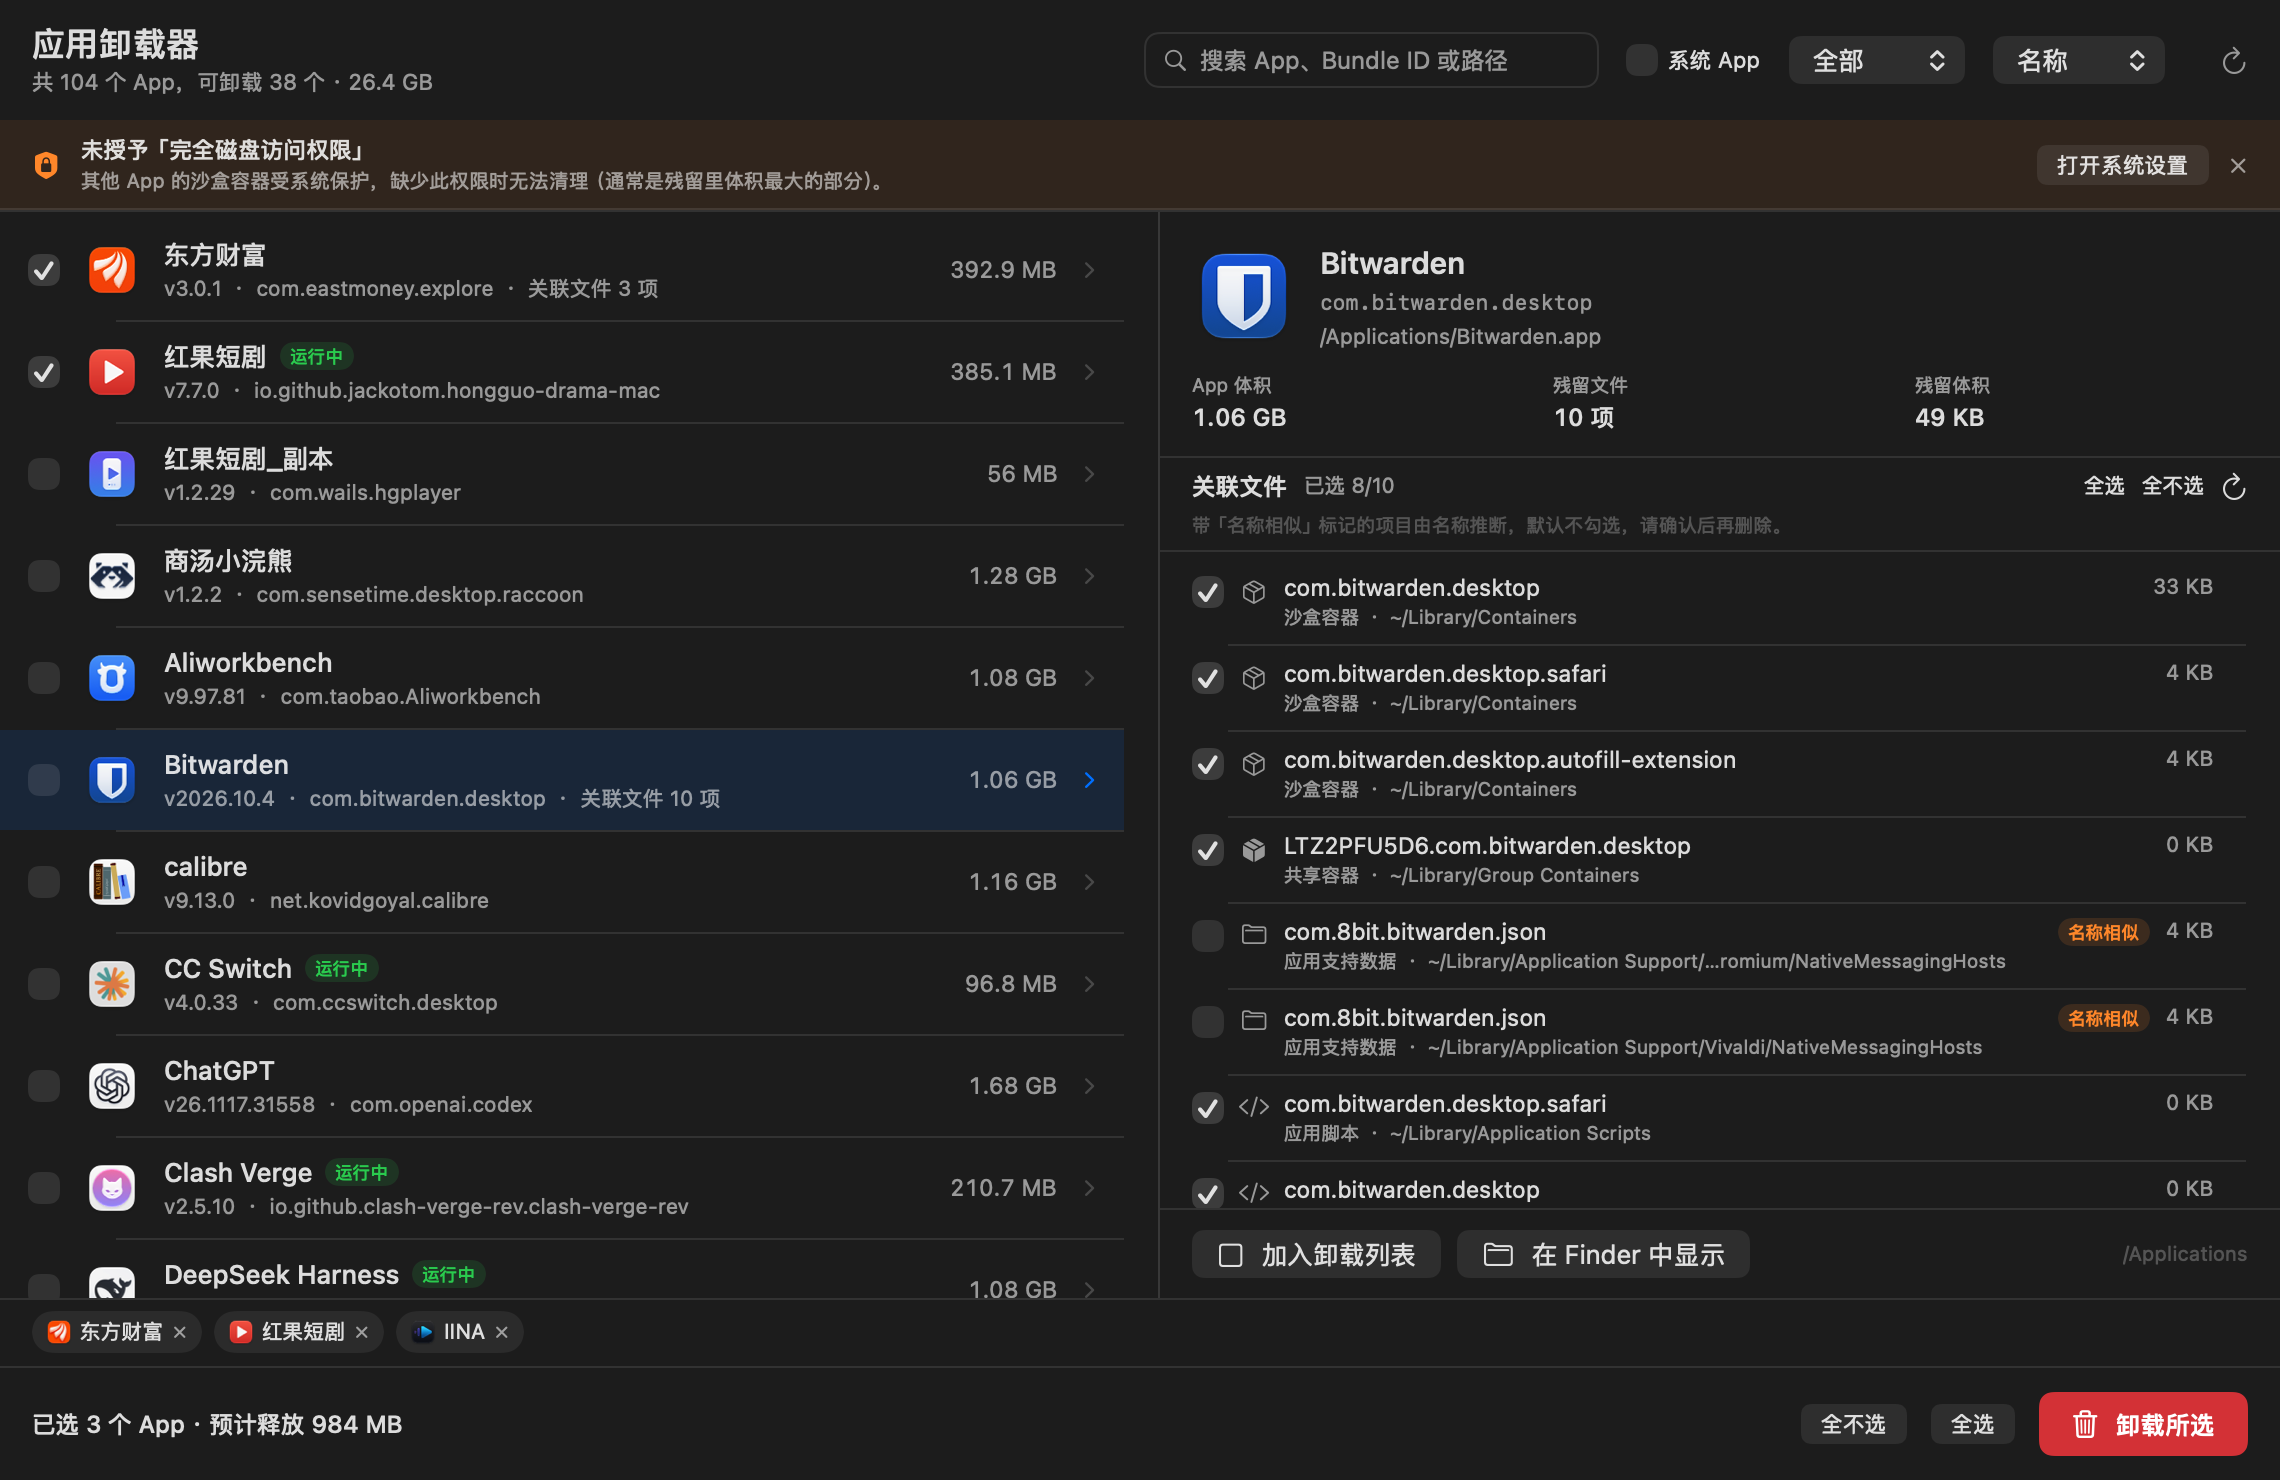
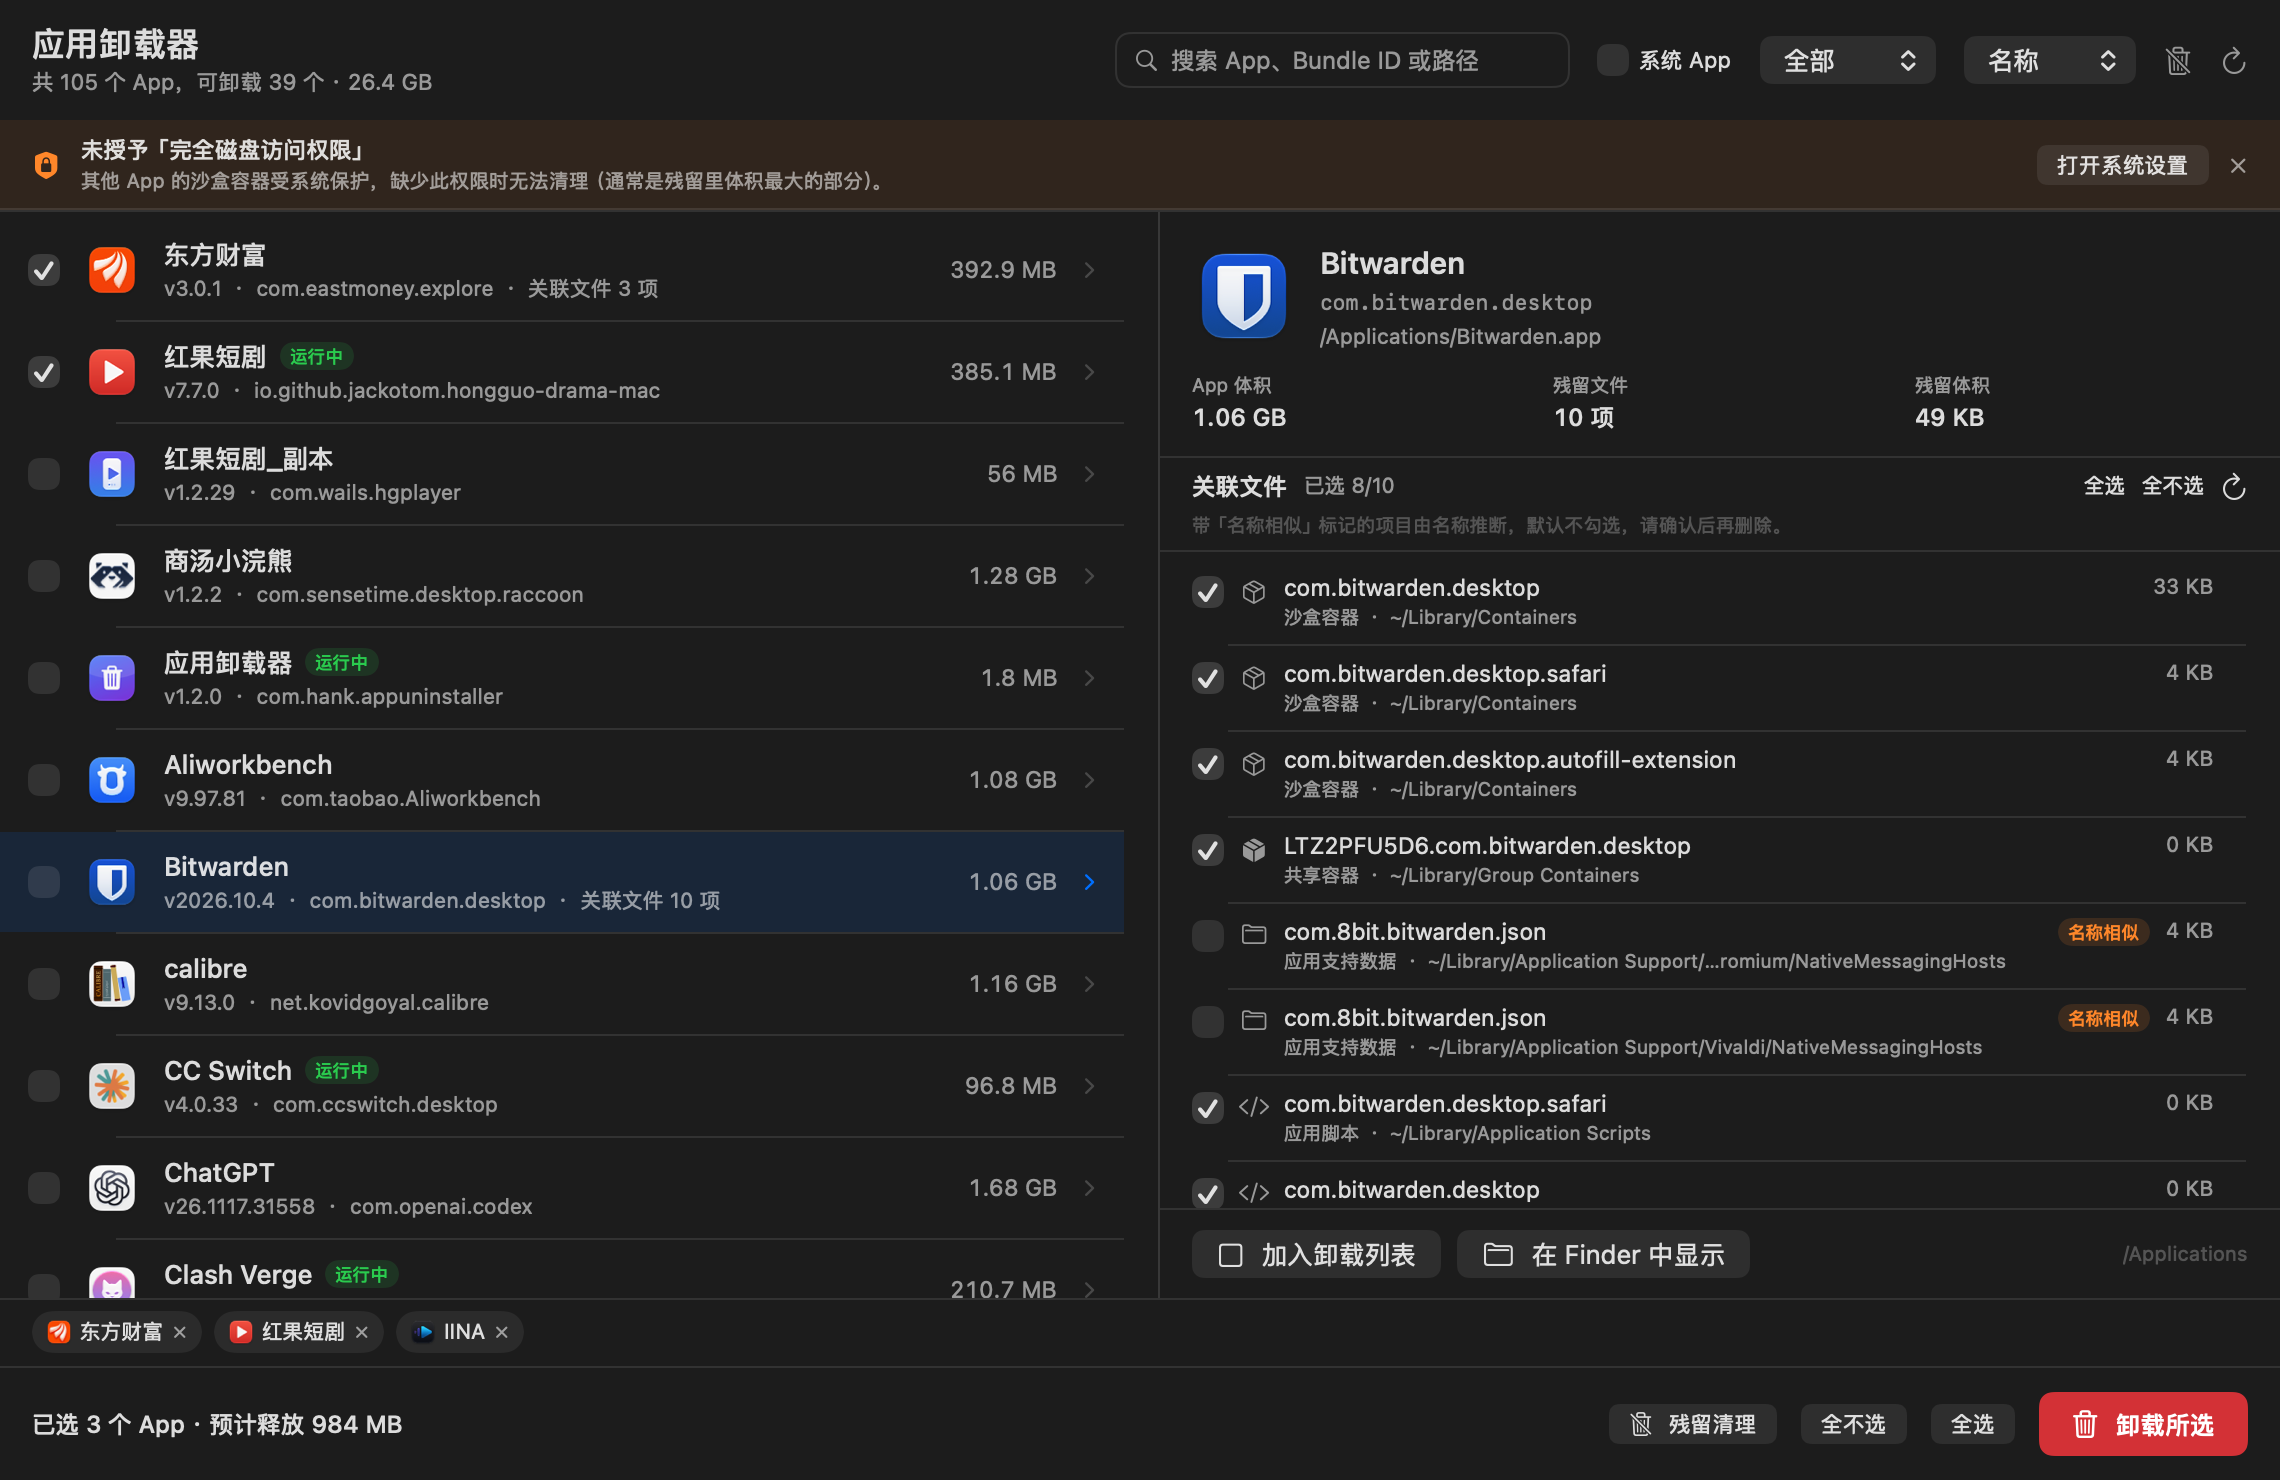
fix: 残留清理入口在部分系统不可见；新增底部按钮与菜单项（1.2.1）

diff --git a/Sources/UI.swift b/Sources/UI.swift
@@ -109,10 +109,10 @@ struct HeaderBar: View {
             Button {
                 state.openOrphanSheet()
             } label: {
-                Image(systemName: "broom")
+                Image(systemName: "trash.slash")
             }
             .buttonStyle(.borderless)
-            .help("清理已卸载 App 的残留容器")
+            .help("残留清理：扫描并清理已卸载 App 留下的容器")
             .disabled(state.isScanning)
 
             Button {
@@ -580,6 +580,15 @@ struct FooterBar: View {
 
             Spacer()
 
+            Button {
+                state.openOrphanSheet()
+            } label: {
+                Label("残留清理", systemImage: "trash.slash")
+            }
+            .buttonStyle(.bordered)
+            .controlSize(.small)
+            .help("扫描已卸载 App 留下的容器残留")
+
             Button("全不选") { state.clearSelection() }
                 .buttonStyle(.bordered)
                 .controlSize(.small)
@@ -734,7 +743,7 @@ struct OrphanSheet: View {
     var body: some View {
         VStack(alignment: .leading, spacing: 12) {
             HStack(spacing: 8) {
-                Image(systemName: "broom")
+                Image(systemName: "trash.slash")
                     .font(.system(size: 16))
                     .foregroundStyle(.orange)
                 Text("残留清理").font(.system(size: 16, weight: .semibold))

diff --git a/Sources/main.swift b/Sources/main.swift
@@ -93,6 +93,10 @@ final class AppDelegate: NSObject, NSApplicationDelegate {
         FullDiskAccess.openSettings()
     }
 
+    @objc private func menuOrphans() {
+        state.openOrphanSheet()
+    }
+
     @objc private func menuUninstall() {
         state.beginUninstall()
     }
@@ -147,6 +151,10 @@ final class AppDelegate: NSObject, NSApplicationDelegate {
         let uninstallItem = actionMenu.addItem(withTitle: "卸载所选…", action: #selector(menuUninstall), keyEquivalent: "\u{8}")
         uninstallItem.keyEquivalentModifierMask = [.command, .shift]
         uninstallItem.target = self
+
+        let orphanItem = actionMenu.addItem(withTitle: "残留清理…", action: #selector(menuOrphans), keyEquivalent: "o")
+        orphanItem.keyEquivalentModifierMask = [.command, .shift]
+        orphanItem.target = self
 
         let windowMenuItem = NSMenuItem()
         mainMenu.addItem(windowMenuItem)

diff --git a/README.md b/README.md
@@ -79,7 +79,7 @@ cd AppUninstaller
 4. 点右下角红色「卸载所选」，在确认页选择是否退出运行中的 App、是否清理 `/Library`、是否注销注册信息、是否永久删除。
 5. 执行完成后给出逐条结果；需要 root 的项目会合并为**一次**系统授权。
 6. 默认所有内容都在废纸篓里，清空后才真正释放空间。
-7. 已卸载但没清干净的 App，点右上角「扫帚」图标打开残留清理。
+7. 已卸载但没清干净的 App，点底部的「残留清理」按钮打开（也可用菜单「操作 → 残留清理…」，快捷键 `⌘⇧O`）。
 
 | 确认卸载 | 卸载结果 |
 | --- | --- |
@@ -239,6 +239,9 @@ Resources/AppIcon.icns ───────┘
 
 ## 更新日志
 
+- **1.2.1**
+  - 修复「残留清理」入口图标在部分系统上不显示的问题（原 SF Symbol `broom` 不存在）
+  - 新增底部带文字的「残留清理」按钮，以及「操作 → 残留清理…」菜单项（`⌘⇧O`）
 - **1.2.0**
   - 新增「残留清理」：孤儿容器扫描与清理，支持内嵌扩展、App Group、同厂商前缀识别
   - 新增完全磁盘访问权限检测、顶部提示、菜单入口与一键跳转
